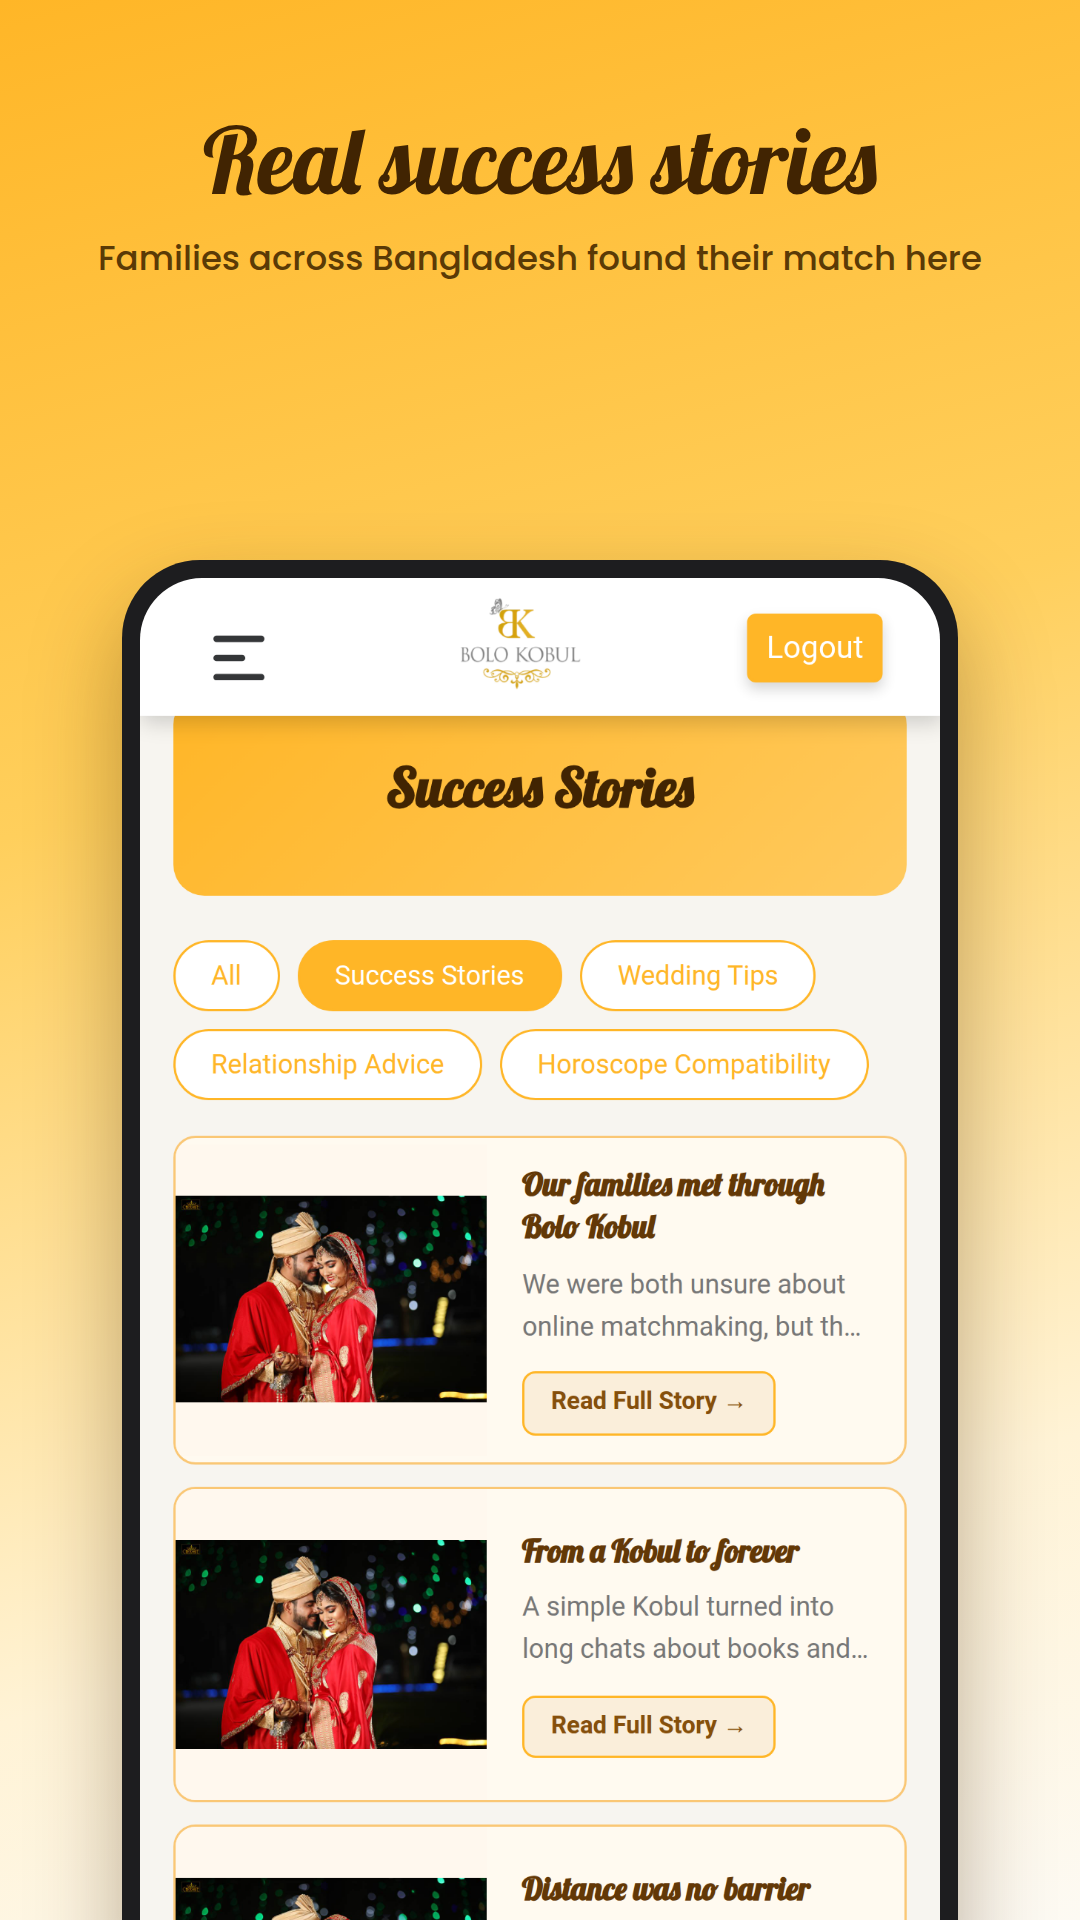
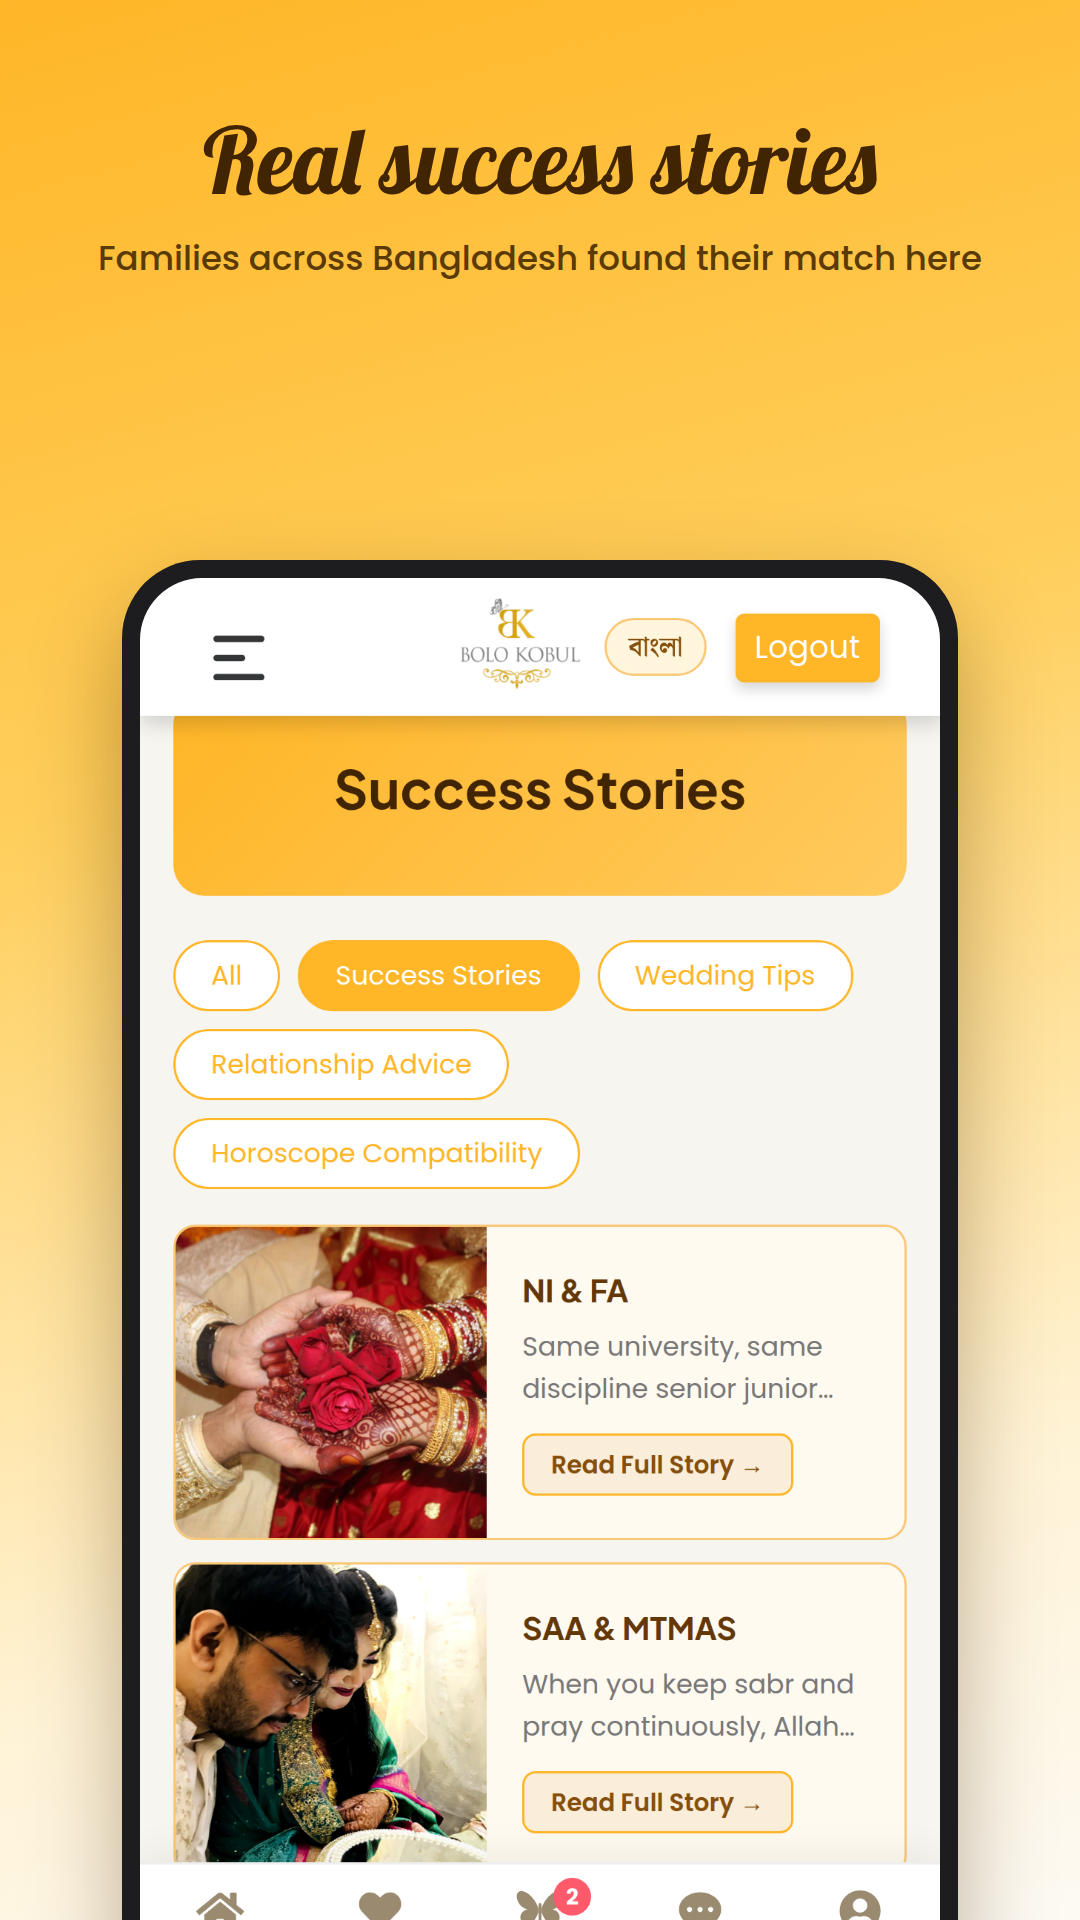
Real success stories in the Play Store screenshot; tidier story cards
- Play Store screenshot 6 now shows real success stories shared on the site
  (the story with a child in the photo is left out)
- Blogs and success stories list newest first; before, the order was whatever
  the database returned and could change
- Story card photos fill their frame (cropped, faces kept near the top) instead
  of shrinking with empty strips, and every card is the same height

Claude-Session: https://claude.ai/code/session_019HuBMxNQqhbdgscb3KNAc6

diff --git a/app/controllers/blogs_controller.rb b/app/controllers/blogs_controller.rb
@@ -1,6 +1,6 @@
 class BlogsController < ApplicationController
   def index
-    @blogs = Blog.approved
+    @blogs = Blog.approved.order(created_at: :desc)
     @blogs = @blogs.where(story_type: params[:type]) if params[:type].present?
     @blogs = @blogs.paginate(page: params[:page], per_page: 10)
     @blog = Blog.new

diff --git a/deploy/play-store/listing.md b/deploy/play-store/listing.md
@@ -1,7 +1,8 @@
 # Google Play listing: Bolo Kobul
 
 Everything to paste into **Play Console → Grow → Store presence → Main store listing**.
-Images are in this folder. All members shown in the screenshots are made-up demo profiles.
+Images are in this folder. The members in screenshots 1–5 are made-up demo profiles; screenshot 6 shows
+real success stories that couples shared on the site.
 
 ## App details
 
